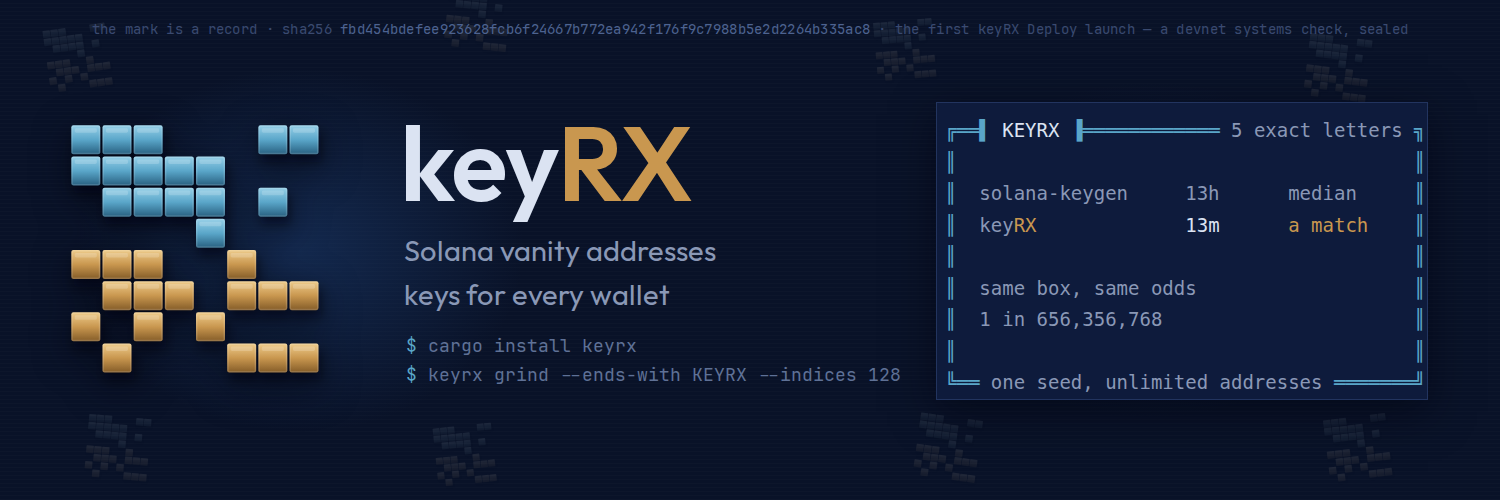
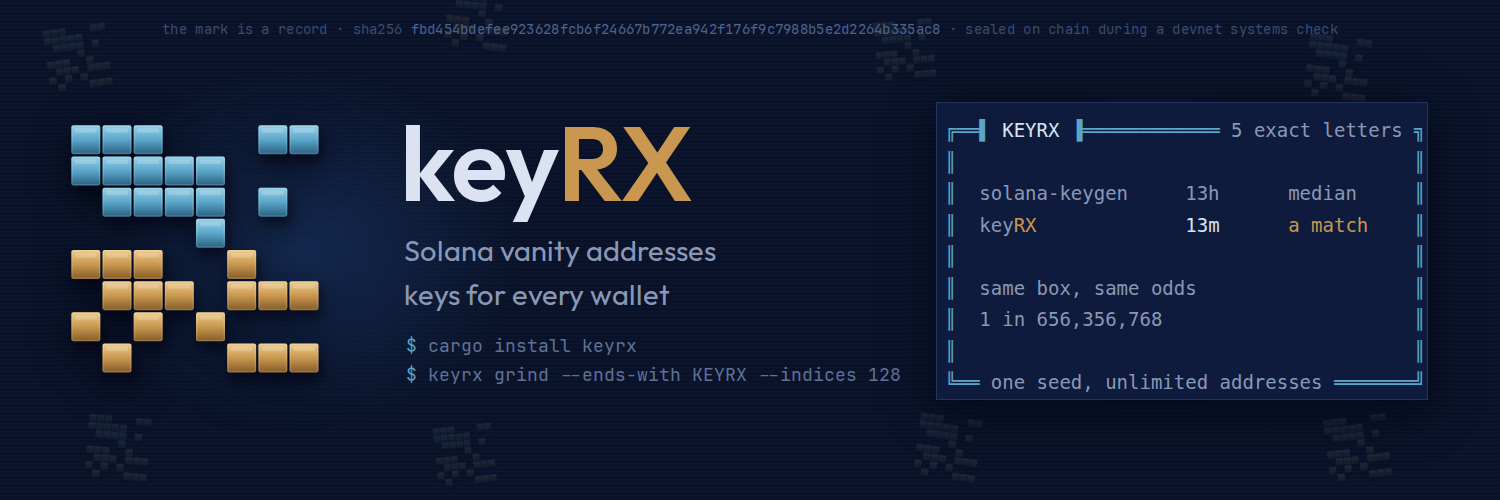
0.2.3 — the mark's captions and file comments trimmed; no functional change

Changed region(s): [[0.0613, 0.03, 0.92, 0.09]]

diff --git a/site/index.html b/site/index.html
@@ -164,10 +164,9 @@ function group(n){return Math.round(n).toString().replace(/\B(?=(\d{3})+(?!\d))/
 function fmtDur(s){if(!isFinite(s)||s<0)return '--';if(s<90)return Math.round(s)+'s';if(s<5400)return (s/60).toFixed(1)+'m';if(s<172800)return (s/3600).toFixed(1)+'h';return (s/86400).toFixed(1)+'d';}
 
 /* ── masthead ─────────────────────────────────────────────────────────── */
-/* the mark: the seal of the flagship keyRX Deploy record - manifest sha256 of the first keyRX/KEYRX
-   launch (mint DH3EVN…KEYRX, devnet). 64 hex digits on an 8x8 grid, a cell lit where the digit is 8
-   or above; here two grid rows per text line in half-blocks: rows 0-3 cyan, 4-7 amber. Same rule as
-   every record's seal on deploy.keyrx.tech; the same glyph the CLI prints and the site's favicon shows. */
+/* the mark: a seal, sealed on chain. 64 hex digits on an 8x8 grid, a cell lit where the digit is 8
+   or above; here two grid rows per text line in half-blocks: rows 0-3 cyan, 4-7 amber. The same
+   glyph the CLI prints and the site's favicon shows. */
[1 lines of base64/hex data omitted]
 function sealLines(){var out=[];
   for(var p=0;p<4;p++){var s='';for(var c=0;c<8;c++){var t=parseInt(SEAL[p*16+c],16)>=8,b=parseInt(SEAL[p*16+8+c],16)>=8;
@@ -178,7 +177,7 @@ function masthead(right){
   if(MOBILE){var h1='[[c]]▐▌[[/]] '+head;line(' '+h1+' '.repeat(Math.max(1,W-vis(h1)-vis(rt)-2))+rt);}
   else{var sl=sealLines();
     line(' '+sl[0]+'  '+head+' '.repeat(Math.max(1,W-vis(sl[0])-2-vis(head)-vis(rt)-2))+rt);
-    line(' '+sl[1]);line(' '+sl[2]+'  [[f]]the mark is a record: the first keyRX Deploy launch, sealed[[/]]');line(' '+sl[3]);}
+    line(' '+sl[1]);line(' '+sl[2]+'  [[f]]the mark is a record, sealed on chain[[/]]');line(' '+sl[3]);}
   line(' [[f]]'+'━'.repeat(W-2)+'[[/]]');
 }
 
@@ -400,7 +399,7 @@ function fit(){
 var booted=false;
 function rerender(){out.innerHTML='';start();}
 function start(){
-  masthead('v0.2.2');
+  masthead('v0.2.3');
   blank();
   if(MOBILE){line('  [[w]]Solana vanity addresses.[[/]]');line('  [[d]]20-60x faster. Keys for every wallet.[[/]]');}
   else{line('  [[w]]Solana vanity addresses, 20-60x faster than solana-keygen grind[[/]]');

diff --git a/assets/make_mark.py b/assets/make_mark.py
@@ -1,17 +1,16 @@
 #!/usr/bin/env python3
-"""The keyRX Deploy mark, generated from a record's hash - the SVG is the only source; rasters come from it.
+"""The keyRX mark, generated from a hash - the SVG is the only source; rasters come from it.
 
     python3 assets/make_mark.py <sha256 hex64> [--label "..."] [--out assets/logo.svg]
 
 Sixty-four hex digits on an 8x8 grid, one per cell, row by row; a cell is lit when its digit is 8 or
-above. That is the same rule that draws the seal of every deployment record's manifest, so the mark
-IS a record's seal. Rows 0-3 in the site's blue, rows 4-7 in its amber; each tile a small cylinder,
+above - a seal. Rows 0-3 in the site's blue, rows 4-7 in its amber; each tile a small cylinder,
 one soft shadow under the whole glyph; the glyph inset so nothing falls outside the inscribed circle
 (it survives a round avatar crop on any ground). Stdlib only.
 """
 import argparse, sys
 
-def make(hexhash: str, label: str, title: str = "keyRX Deploy") -> str:
+def make(hexhash: str, label: str, title: str = "keyRX") -> str:
     h = hexhash.strip().lower()
     if len(h) != 64 or any(c not in "0123456789abcdef" for c in h):
         sys.exit("need a 64-char lowercase hex sha256")
@@ -25,8 +24,8 @@ def make(hexhash: str, label: str, title: str = "keyRX Deploy") -> str:
         out.append('    ' + line if line else '')
     out.append('')
     out.append('    Sixty-four hex digits on an 8x8 grid, one per cell, row by row; a cell is')
-    out.append('    lit when its digit is 8 or above - the same rule that draws the seal of')
-    out.append('    every deployment record. The pattern is the truth and never changes; the')
+    out.append('    lit when its digit is 8 or above -')
+    out.append('    a seal. The pattern is the truth and never changes; the')
     out.append('    dressing is free: rows 0-3 in the site\'s blue, rows 4-7 in its amber (the')
     out.append('    two tones keyRX has always used - blue and amber), each tile a small cylinder, one soft shadow')
     out.append('    under the whole glyph, inset inside the inscribed circle. Regenerate with')
@@ -56,9 +55,9 @@ def make(hexhash: str, label: str, title: str = "keyRX Deploy") -> str:
 if __name__ == "__main__":
     ap = argparse.ArgumentParser()
     ap.add_argument("sha256")
-    ap.add_argument("--label", default="The seal of a deployment record's manifest.")
+    ap.add_argument("--label", default="A seal of a hash.")
     ap.add_argument("--out", default="assets/logo.svg")
-    ap.add_argument("--title", default="keyRX Deploy")
+    ap.add_argument("--title", default="keyRX")
     a = ap.parse_args()
     svg = make(a.sha256, a.label, a.title)
     with open(a.out, "w", encoding="utf-8") as f:

diff --git a/src/ui.rs b/src/ui.rs
@@ -170,10 +170,8 @@ pub fn crit_line(text: &str) -> String {
 }
 
 /// The masthead: ▐▌ keyRX  one mnemonic, unlimited addresses     right-hand note
-/// The mark: the seal of the flagship keyRX Deploy record - the manifest sha256 of the first
-/// keyRX/KEYRX launch (mint DH3EVN…KEYRX, devnet). Sixty-four hex digits on an 8x8 grid, a cell
-/// lit where the digit is 8 or above - the rule that draws the seal of every deployment record on
-/// deploy.keyrx.tech. Two grid rows per text line in half-blocks: rows 0-3 blue, rows 4-7 amber.
+/// The mark: a seal, sealed on chain. Sixty-four hex digits on an 8x8 grid, a cell lit where the
+/// digit is 8 or above. Two grid rows per text line in half-blocks: rows 0-3 blue, rows 4-7 amber.
 /// The same glyph is the site's favicon and the repository's avatar; here it is text.
[1 lines of base64/hex data omitted]
 
@@ -201,7 +199,7 @@ pub fn masthead(right: &str) {
     let gap = (W as isize - vis(&head) as isize - vis(&rt) as isize - 1).max(1) as usize;
     println!("\n{}{}{}", head, " ".repeat(gap), rt);
     println!(" {}", seal[1]);
-    println!(" {}  {}the mark is a record: the first keyRX Deploy launch, sealed{}", seal[2], faint(), r());
+    println!(" {}  {}the mark is a record, sealed on chain{}", seal[2], faint(), r());
     println!(" {}", seal[3]);
     println!(" {}{}{}", faint(), "━".repeat(W - 2), r());
 }

diff --git a/src/main.rs b/src/main.rs
@@ -53,10 +53,10 @@ const B58: &[u8; 58] = b"123456789ABCDEFGHJKLMNPQRSTUVWXYZabcdefghijkmnopqrstuvw
 
 // ---------------------------------------------------------------- CLI
 
-/// The mark above `--help`: the seal of the first keyRX Deploy launch (see ui::SEAL), plain when piped.
+/// The mark above `--help` (see ui::SEAL), plain when piped.
 fn help_seal() -> String {
     let l = ui::seal_lines();
-    format!(" {}  keyRX\n {}\n {}  the mark is a record: the first keyRX Deploy launch, sealed\n {}", l[0], l[1], l[2], l[3])
+    format!(" {}  keyRX\n {}\n {}  the mark is a record, sealed on chain\n {}", l[0], l[1], l[2], l[3])
 }
 
 #[derive(Parser)]

diff --git a/README.md b/README.md
@@ -119,19 +119,10 @@ keep `--indices` low if Phantom is the target; Solflare takes custom paths.
 
 ## The mark
 
-The mark is a record. It is the seal of the first launch made through
-[keyRX Deploy](https://deploy.keyrx.tech) — the keyRX/KEYRX token, deployed by a wallet ending in
-`KEYRX` at a mint ending in `KEYRX`, on devnet as a systems check, its declaration published on chain
-before the token existed. Sixty-four hex digits of that record's manifest hash on an 8×8 grid, a cell
-lit where the digit is 8 or above — the same rule that draws the seal of every deployment record.
-Anyone can re-derive it:
-
-    curl -sO https://deploy.keyrx.tech/verify.py
-    curl -sO https://deploy.keyrx.tech/records/DH3EVN49g3EazPWfBUkKGc1Qa3JJZiFNKKrywSkKEYRX/manifest.json
-    python3 verify.py hash manifest.json      # sha256 fbd454bd…4b335ac8 — the mark
-
-The CLI prints it above the start screen; `assets/logo.svg` is the source (`assets/make_mark.py`
-generates it from the hash); every raster is cut from that file.
+The mark is a record, sealed on chain: sixty-four hex digits of a hash on an 8×8 grid, a cell lit
+where the digit is 8 or above; the upper half blue, the lower half amber. The CLI prints it above the
+start screen. `assets/logo.svg` is the source (`assets/make_mark.py` draws it from the hash) and every
+raster is cut from that file. What the record is will be said when the time comes.
 
 ## Changelog
 
@@ -141,5 +132,5 @@ generates it from the hash); every raster is cut from that file.
 
 MIT — use it, fork it, ship it, sell it. The code is yours under that licence, and
 with it the look: anyone may build a grinder that frames its panels the same way.
-The **name**, the **mark** (the seal of the first keyRX Deploy launch), and the files under `assets/` are not part of
+The **name**, the **mark**, and the files under `assets/` are not part of
 the grant — see [TRADEMARK.md](TRADEMARK.md) and `assets/LICENSE`. Forks rebrand.

diff --git a/CHANGELOG.md b/CHANGELOG.md
@@ -2,15 +2,18 @@
 
 All notable changes to keyRX, newest first. Versions are the ones on crates.io.
 
+## 0.2.3 — 2026-08-18
+
+- Captions and file comments around the mark trimmed. No functional change.
+
 ## 0.2.2 — 2026-08-18
 
-- The mark. keyRX now carries one mark everywhere: the seal of the first keyRX Deploy launch —
-  the manifest hash of the keyRX/KEYRX token (mint `DH3EVN…KEYRX`, devnet), sixty-four hex digits
-  on an 8x8 grid, a cell lit where the digit is 8 or above; the same rule that draws the seal of
-  every deployment record on deploy.keyrx.tech. In the terminal it is four lines of half-blocks
-  above the start screen and `--help`, coloured only on a TTY (`NO_COLOR` respected); in the
-  repository it is `assets/logo.svg` (source, generated by `assets/make_mark.py`) and every raster
-  cut from it; on keyrx.tech it is the masthead, the favicon and the OG image. Retired: the capsule.
+- The mark. keyRX now carries one mark everywhere: a seal — sixty-four hex digits of a hash on an
+  8x8 grid, a cell lit where the digit is 8 or above. In the terminal it is four lines of
+  half-blocks above the start screen and `--help`, coloured only on a TTY (`NO_COLOR` respected);
+  in the repository it is `assets/logo.svg` (source, generated by `assets/make_mark.py`) and every
+  raster cut from it; on keyrx.tech it is the masthead, the favicon and the OG image. Retired: the
+  capsule.
 - Site: the masthead seal (desktop), the embedded font subset gains the two half-block glyphs it
   needed (5.2 KB, same tables), banner and OG regenerated by `assets/render_banner.cjs`.
 - No change to grinding, matching, files or flags.

diff --git a/TRADEMARK.md b/TRADEMARK.md
@@ -9,7 +9,7 @@ trademarks, and nothing here licenses one.
 ## What this covers
 
 - The name **keyRX**, in any capitalisation or spacing
-- The keyRX logo - the seal mark, drawn from the manifest hash of the first keyRX Deploy launch - and any mark used to identify this project
+- The keyRX logo - the seal mark - and any mark used to identify this project
 - The domain **keyrx.tech** and the account **@keyRX**
 - The files under `assets/` — logo, wordmark, banner, favicons. They carry
   their own notice (`assets/LICENSE`) and are **not** part of the MIT grant.
